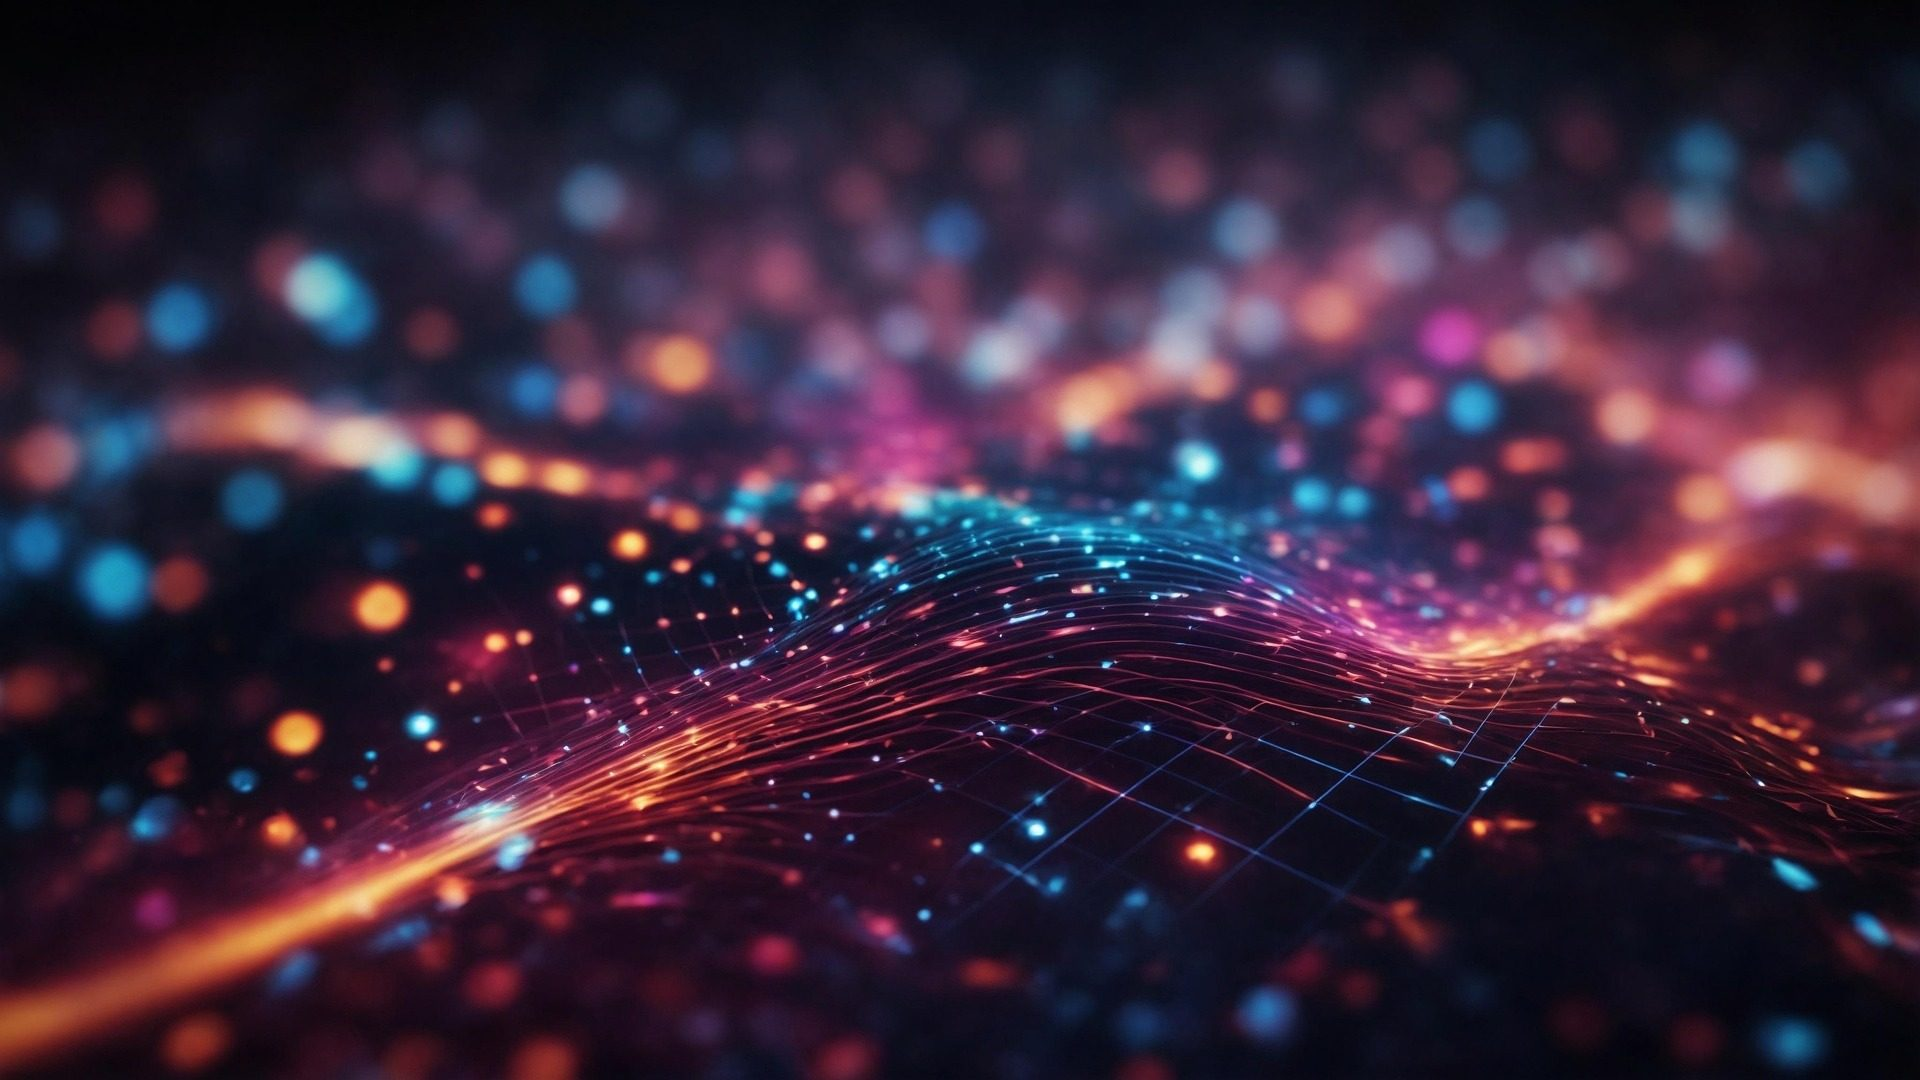
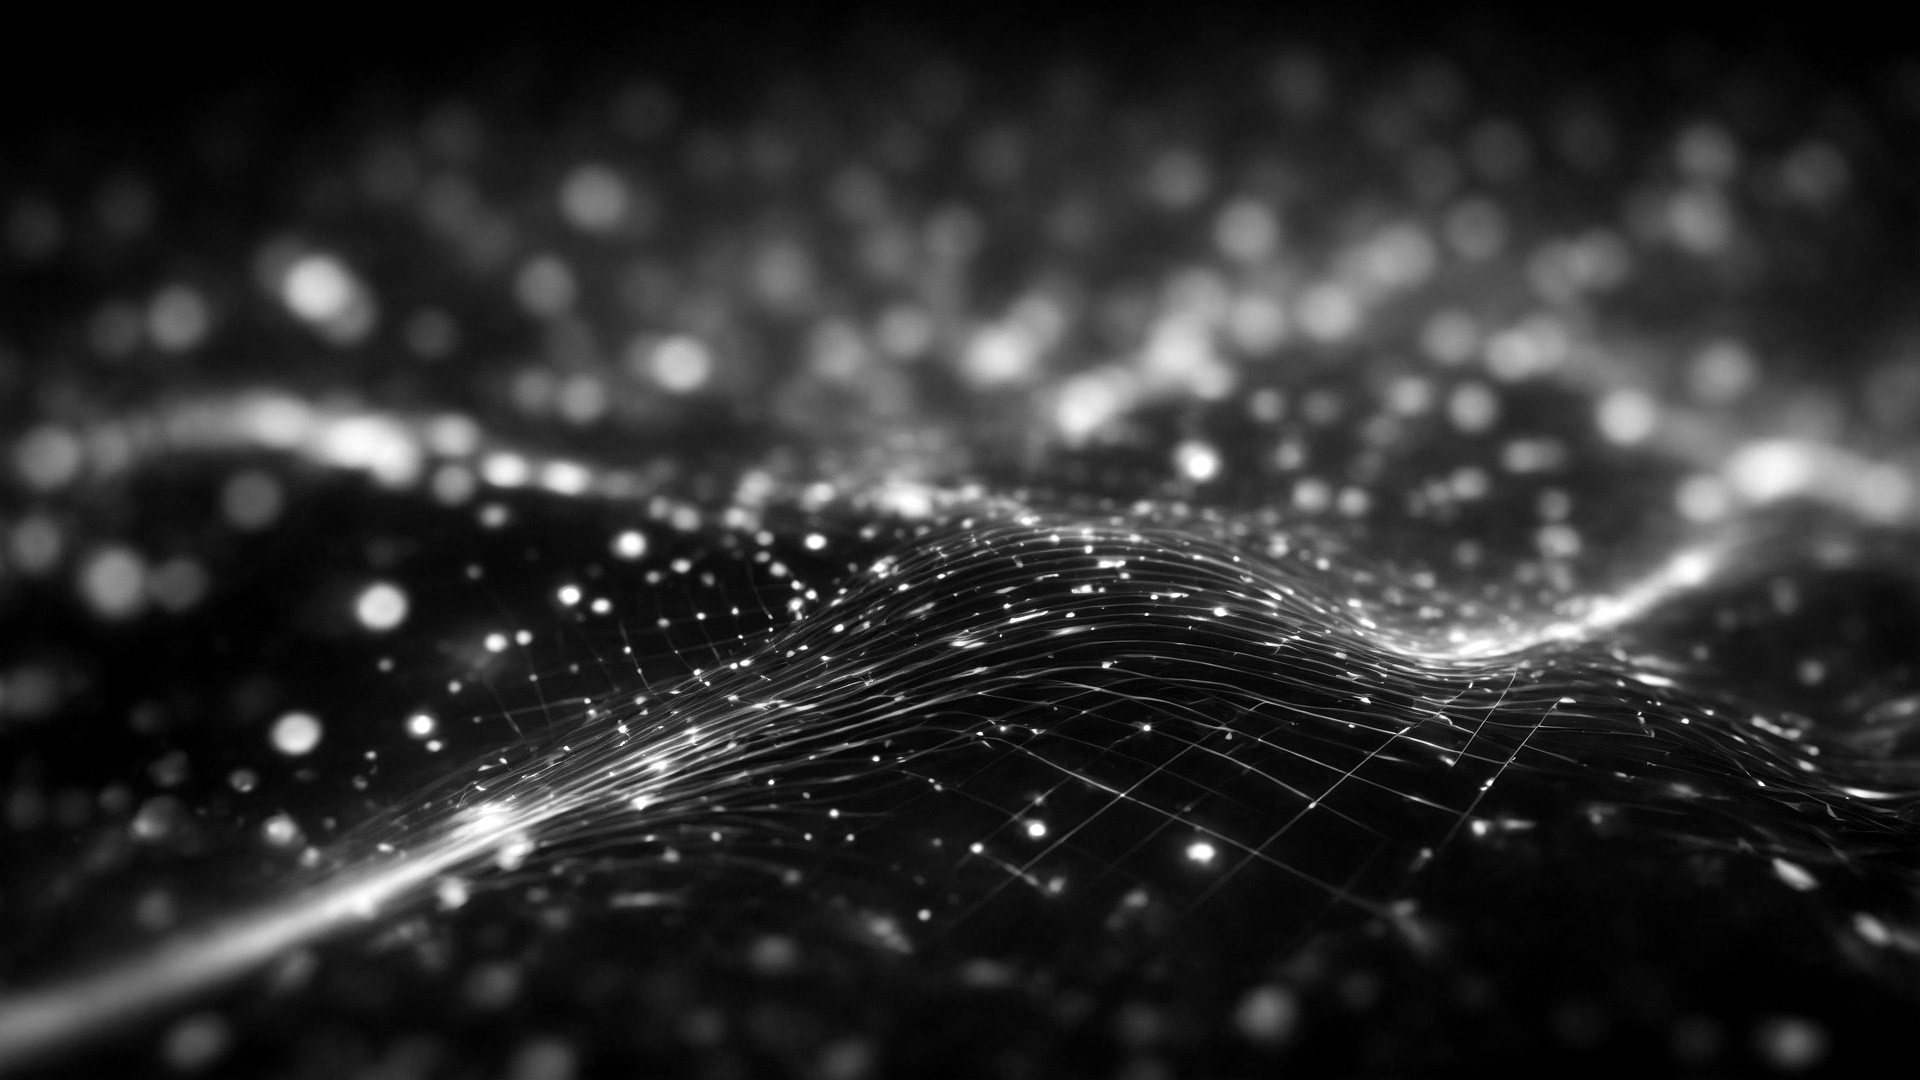
Convert hero image to black and white, retune tint
Desaturates the hero (verified truly greyscale: R/G/B channel means all
46.1) with a mild contrast lift, since the neon hues collapse to similar
mid-greys and flatten the wave structure without it.

Tint goes .55 -> .50. The heavy tint existed to mute the image's
magenta/orange, which is moot now, but it can't drop much further: the
B&W conversion leaves bright bokeh highlights, and measuring the actual
backdrop under the text across the whole text area (not a single point)
showed .30 puts the small CV-button text at ~2:1 over the brightest
spots. At .50 the worst case is 3.36:1 with a median of ~13:1, so the
large heading clears AA and the button is comfortable in practice.

Note the measurement itself needed fixing: hiding .desc with
visibility:hidden left .btn-learn computing to visible, so earlier
samples were reading the button's own white border rather than the
backdrop. Switched to display:none.

Claude-Session: https://claude.ai/code/session_01JPC2ehjZmdr3xkZv5rCaM7

diff --git a/css/style.css b/css/style.css
@@ -292,7 +292,7 @@ figure figcaption {
   right: 0;
   bottom: 0;
   z-index: 1;
-  background: rgba(13, 27, 42, 0.55);
+  background: rgba(13, 27, 42, 0.5);
 }
 #colorlib-hero .flexslider {
   border: none;

diff --git a/sass/style.scss b/sass/style.scss
@@ -368,7 +368,7 @@ figure {
 		right: 0;
 		bottom: 0;
 		z-index: 1;
-		background: rgba(13, 27, 42, .55);
+		background: rgba(13, 27, 42, .50);
 	}
 	.flexslider {
 		border: none;
